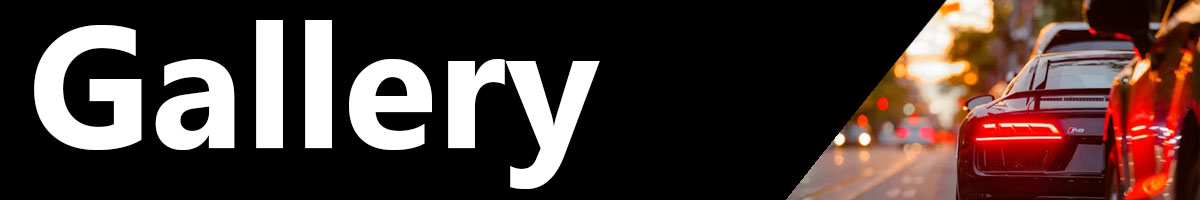
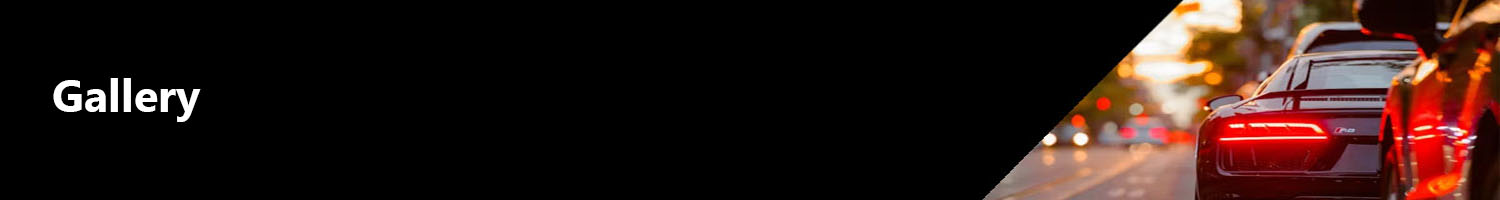
update b4a slider

Changed region(s): [[0.0308, 0.09, 0.5242, 0.96]]

diff --git a/index.html b/index.html
@@ -6,6 +6,7 @@
     <meta name="viewport" content="width=device-width, initial-scale=1.0">
     <title>Centre Point Auto Body</title>
     <link rel="stylesheet" href="styles.css">
+    
     <link rel="preconnect" href="https://fonts.googleapis.com">
 <link rel="preconnect" href="https://fonts.gstatic.com" crossorigin>
 <link href="https://fonts.googleapis.com/css2?family=Poppins:ital,wght@0,100;0,200;0,300;0,400;0,500;0,600;0,700;0,800;0,900;1,100;1,200;1,300;1,400;1,500;1,600;1,700;1,800;1,900&display=swap" rel="stylesheet">
@@ -191,71 +192,19 @@
 
 
         <section id="gallery" class="section">
-            <div class="container">
 
-<img class="galleryimg" src="img/gallery/beforeafter/beforeandafter5.jpg">
+                <img class="galleryimg" src="img/gallery/beforeafter/gallery.jpg">
 
-                <div class="gallery">
-
-                    <div class="gallery-item3">
-                        <img src="img/gallery/beforeafter/car1.jpg">
+                <div class="sliderbody">
+                    <div class='slidercontainer'>
+                      <div class='img background-img'></div>
+                      <div class='img foreground-img'></div>
+                      <input type="range" min="1" max="100" value="50" class="slider" name='slider' id="slider">
+                      <div class='slider-button'></div>
                     </div>
-                    <div class="gallery-item3">
-                        <img src="img/gallery/beforeafter/car2.jpg">
-
-                    </div>
-                    <div class="gallery-item3">
-                        <img src="img/gallery/beforeafter/car3.jpg">
-
-                    </div>
-
-
                 </div>
 
-
-
-                <div class="gallery">
-
-                    <div class="gallery-item3">
-                        <img src="img/gallery/beforeafter/car4.jpg">
-                    </div>
-                    <div class="gallery-item3">
-                        <img src="img/gallery/beforeafter/car5.jpg">
-                    </div>
-                    <div class="gallery-item3">
-                        <img src="img/gallery/beforeafter/car6.jpg">
-                    </div>
-
-                </div>
-
-                <div class="gallery">
-
-                    <div class="gallery-item2">
-                        <img src="img/gallery/beforeafter/f1.jpg">
-                    </div>
-                    <div class="gallery-item2">
-                        <img src="img/gallery/beforeafter/f2.jpg">
-                    </div>
-
-
-                </div>
-
-                <div class="gallery">
-
-                    <div class="gallery-item2">
-                        <img src="img/gallery/beforeafter/t1.jpg">
-                    </div>
-                    <div class="gallery-item2">
-                        <img src="img/gallery/beforeafter/t2.jpg">
-                    </div>
-
-
-                </div>
-                <img class="galleryimg" src="img/gallery/beforeafter/gallery2.jpg">
-
- 
-
-            <div class="slider">
+            <div class="slider1">
                 <div class="slides">
                     <div class="slide"><img src="img/gallery/g1.jpg"></div>
                     <div class="slide"><img src="img/gallery/g2.jpg"></div>
@@ -450,9 +399,8 @@
         </div>
 
     </footer>
-    <script src="https://cdn.emailjs.com/dist/email.min.js"></script>
+    <script src="https://code.jquery.com/jquery-3.3.1.min.js"></script>
     <script src="scripts.js"></script>
 
 </body>
-
 </html>

diff --git a/styles.css b/styles.css
@@ -106,10 +106,7 @@ header button:hover {
     width: 100%;
 
     /* Create the parallax scrolling effect */
-    background-attachment: fixed;
-    background-position: center;
-    background-repeat: no-repeat;
-    background-size: cover;
+
     
 }
 
@@ -782,7 +779,7 @@ width: 100%;
 }
 
 
-.slider {
+.slider1 {
     position: relative;
     width: 100%;
     max-width: 1200px;
@@ -852,7 +849,116 @@ width: 100%;
 
 .galleryimg {
 margin-top: 50px;
-margin-bottom: -7px;
+margin-bottom:-40px;
 }
 
 
+/*
+
+
+
+
+*/
+
+.sliderbody {
+    margin: 0;
+    height: 85vh;
+    display: flex;
+    justify-content: center;
+    align-items: center;
+}
+
+.slidercontainer {
+    position: relative;
+    width: 1500px;
+    height: 700px;
+    border-right: 2px solid white;
+    border-bottom: 2px solid white;
+    border-left: 2px solid white;
+
+}
+
+.slidercontainer .img {
+    position: absolute;
+    top: 0;
+    left: 0;
+    width: 100%;
+    height: 100%;
+    background-size: 1500px 100%;
+}
+
+.slidercontainer .background-img {
+    background-image: url('img/gallery/beforeafter/car3.jpg');
+}
+
+.slidercontainer .foreground-img {
+    background-image: url('img/gallery/beforeafter/car1.jpg');
+    width: 50%;
+}
+
+.slidercontainer .slider {
+    position: absolute;
+    -webkit-appearance: none;
+    appearance: none;
+    width: 100%;
+    height: 100%;
+    background: rgba(0, 0, 0, 0);
+    outline: none;
+    margin: 0;
+    transition: all 0.2s;
+    display: flex;
+    justify-content: center;
+    align-items: center;
+}
+
+.slidercontainer .slider:hover {
+    background: rgba(255, 255, 255, 0);
+}
+
+.slidercontainer .slider::-webkit-slider-thumb {
+    -webkit-appearance: none;
+    appearance: none;
+    width: 15px;
+    height: 700px;
+    background: white;
+    cursor: pointer;
+}
+
+.slidercontainer .slider::-moz-range-thumb {
+    width: 15px;
+    height: 700px;
+    background: white;
+    cursor: pointer;
+}
+
+.slidercontainer .slider-button {
+    pointer-events: none;
+    position: absolute;
+    width: 30px;
+    height: 30px;
+    border-radius: 50%;
+    background-color: white;
+    left: calc(50% - 18px); /* Adjusted to center the button */
+    top: calc(50% - 18px);
+    display: flex;
+    justify-content: center;
+    align-items: center;
+}
+
+.slidercontainer .slider-button:after {
+    content: '';
+    padding: 3px;
+    display: inline-block;
+    border: solid #5d5d5d;
+    border-width: 0 2px 2px 0;
+    transform: rotate(-45deg);
+}
+
+.slidercontainer .slider-button:before {
+    content: '';
+    padding: 3px;
+    display: inline-block;
+    border: solid #5d5d5d;
+    border-width: 0 2px 2px 0;
+    transform: rotate(135deg);
+}

diff --git a/scripts.js b/scripts.js
@@ -103,3 +103,16 @@ document.addEventListener('keydown', function(event) {
         moveSlide(1);
     }
 });
+
+
+
+
+
+////////////////////////////////////////////////
+$("#slider").on("input change", (e)=>{
+    const sliderPos = e.target.value;
+    // Update the width of the foreground image
+    $('.foreground-img').css('width', `${sliderPos}%`)
+    // Update the position of the slider button
+    $('.slider-button').css('left', `calc(${sliderPos}% - 18px)`)
+  });
